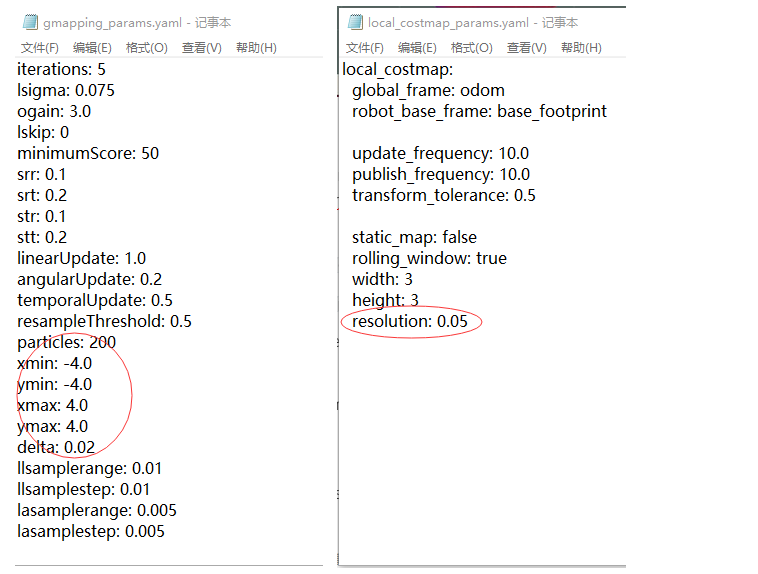
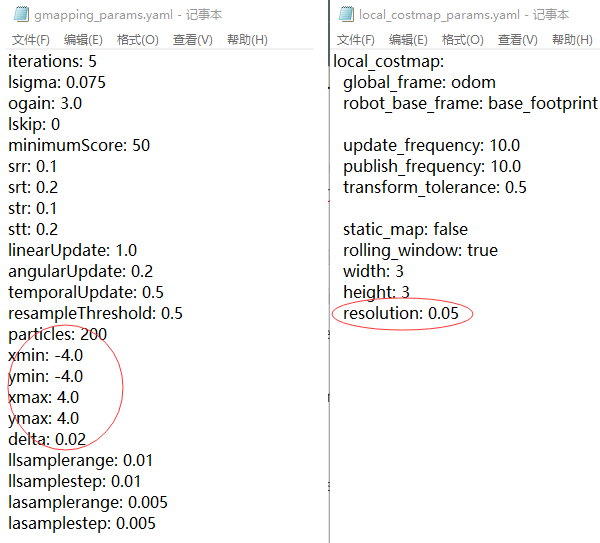
Report draft 2

Changed region(s): [[0.0, 0.0, 1.0, 1.0]]

diff --git a/docs/index.md b/docs/index.md
@@ -1,14 +1,13 @@
 <h1 style="text-align: center"> Capstone Competition </h1>
 <div style="text-align: center"><small>Ruidi PENG | Xiang YU</small></div>
 
-
-
-[toc]
+\* TOC {:toc}
 
 # Introduction
 
 In this competition, our goal is to navigate our robot racing around several points as fast as possible while recognizing the AR codes. To start with, a global map is built using Adaptive Monte Carlo Localization (AMCL) and Gmapping. Then, we need to plan the path by setting some points in our local map. Turtlebot is navigated to these points using `move_base` while reading out AR tags it sees.
-     ![image-20210603161112124](imgs\comp.png)
+
+     <div align=center><img src="imgs\comp.png" alt="image-20210603161112124" style="zoom:40%;" />
 
 # Competition Rules
 
@@ -22,7 +21,7 @@ The second round is setting the path by ourselves and reach as many targets as p
 
 In this project, we choose turtlebot3-burger as our robot. You can find the details [here](https://emanual.robotis.com/docs/en/platform/turtlebot3/overview/).
 
-![turtlebot3](imgs\turtlebot3.png)
+<div align=center><img src="imgs\turtlebot3.png" alt="turtlebot3" style="zoom:50%;" />
 
 Turtlebot3 is a small, low cost, fully programmable, ROS-based mobile robot. It combined with chassis, motor, wheels, OpenCR board, computer(Raspberry Pi), sensor(LiDAR, camera), battery.
 
@@ -32,7 +31,9 @@ This robot can complete many project, which includes: movement operation, forwar
 
 In this competition, LiDAR and camera will be used. They collect data and send to the Raspberry Pi. The the Raspberry Pi will communicate with remote PC with the help of Wi-Fi.
 
-The laser distance sensor we use is LDS-01. It is a 2D laser scanner capable of sensing 360 degrees that collects a set of data around the robot to use for SLAM (Simultaneous Localization and Mapping) and Navigation. More details could be found [here](https://emanual.robotis.com/docs/en/platform/turtlebot3/appendix_lds_01/).![lidar](imgs\lidar.png)
+The laser distance sensor we use is LDS-01. It is a 2D laser scanner capable of sensing 360 degrees that collects a set of data around the robot to use for SLAM (Simultaneous Localization and Mapping) and Navigation. More details could be found [here](https://emanual.robotis.com/docs/en/platform/turtlebot3/appendix_lds_01/).
+
+<div align=center><img src="imgs\lidar.png" alt="lidar" style="zoom:50%;" />
 
 Our camera is a simple csi camera. We only need to recognize the AR code so there is no need to use nicer and more expensive camera. After calibration, we can use it for AR code detection.
 
@@ -40,7 +41,7 @@ Our camera is a simple csi camera. We only need to recognize the AR code so ther
 
 We use Raspberry Pi as the on-board computer for Turtlebot3. It's a very small computer with the size of a credit card. We install Ubuntu 18.04 and ROS Melodic on it. The communication between Raspberry Pi and remote PC is based on Wi-Fi. We can use `ssh pi@[raspberry pi address]`to connect to Raspberry Pi under the same network. It can send command to OpenCR through the USB host, and OpenCR give the motor signal to control robots speed and direction.
 
-![rasp](imgs\rasp.jpg)
+<div align=center><img src="imgs\rasp.jpg" alt="rasp" style="zoom:80%;" />
 
 For more info on Raspberry Pi set up, read [here](https://emanual.robotis.com/docs/en/platform/turtlebot3/sbc_setup/#sbc-setup).
 
@@ -66,13 +67,15 @@ This section will briefly introduce what is packed in the git repository. The or
 
 # Design and Implementation
 
-## 1. Mapping[todo]
+## 1. Mapping
 
-We first built maps for the racing environment using GMapping. After control your robot running around the competition field, the final map can be build as showing below:
+We first built maps for the racing environment using GMapping. After controlling the robot running around the competition field, we can get maps as showing below: (Left for simulation, Right for real lab environment)
 
-![global_map](imgs\global_map.png)
+<div align=center><img src="imgs\maps.png" alt="global_map" style="zoom:90%;" />
 
-The final map is not very precise because of the LiDAR's deviation. We also find that the network also influence the map building. If too many people using the network in the same time, your robot may face packet loss so that the map is incorrect. 
+The final map is not very precise because of the LiDAR's deviation. We also find that the network also influence the map building. If too many people using the network in the same time, your robot may face packet loss so that the map is incorrect.
+
+<div align=center><img src="imgs\map-wrong.png" alt="global_map" style="zoom:60%;" />
 
 ## 2. Navigation
 
@@ -140,15 +143,15 @@ GMapping parameters mainly influence the mapping resolution and map maximum size
 
 When we doing navigation, we need to calculate the cost all the time, so we can also change the parameters in `local_costmap_params.yaml` . `resolution` is the size of the minimum unit of cost map. We first changed it to 0.02 as same as our global map. But the final experiment shows 0.05 is easier for our robot to get out of  the narrow corridor.
 
-![pa](imgs\pa.png)
+<div align=center><img src="imgs\pa.png" alt="pa" style="zoom:80%;" />
 
 ## 4. AR Tag Detection
 
 This is an independent task. We can search the AR tag and make a sound of corresponding numbers. The method is in `ar_track_alver`. We get the AR tag id and use `sound_play`to make sound. We wrote a [listener](https://github.com/readypeng/ee346_remote_pc_catkin_ws/blob/master/src/my_nodes/src/listener.py) to collect all AR code detected and read them out. Open the rviz with following command and we can find the recognition result.
 
-![img](imgs/tag1.gif)
+<div align=center><img src="imgs/tag1.gif" alt="img" style="zoom:80%;" />
 
-![img](imgs/tag2.png)
+<div align=center><img src="imgs/tag2.png" alt="img" style="zoom:80%;" />
 
 Using a lower resolution make the image transmission more robust. And it reduce complexity so that the program does not overheat the remote PC.
 
@@ -156,7 +159,7 @@ Using a lower resolution make the image transmission more robust. And it reduce 
 
 Round 1 is the fixed point path finding. We need to set the points in advance using 2D Nav Goal in rviz. Record the `move_base` message and write them in our navigation program. We set some middle points on the map in order to having a better performance of path finding and AR-tag recognition. The path of round 1 is PS1->1->2->3->4->5, and it's showing here:
 
-![round1](imgs\round1.png)
+<div align=center><img src="imgs\round1.png" alt="round1" style="zoom:100%;" />
 
 ## 6. Round 2
 
@@ -166,7 +169,7 @@ Round 2 is a self design task. For more scores we choose PS2 and PS3 as two basi
 
 The navigation program may plan the path automatically, but when we make the robot face right (the narrow channel direction), it is difficult for the robot to get out because the LiDRA deviation and AMCL resolution make effect the judgment of robot. Near the channel a small raise wall will show in local map so the robot cannot go forward, and actually there is nothing. When we try to change the direction of robot, the planning path changes and  avoids the raising wall. 
 
-![trick](imgs\trick.png)
+<div align=center><img src="imgs\trick.png" alt="trick" style="zoom:80%;" />
 
 # How to Test Our Code
 
@@ -220,9 +223,15 @@ Alternatively, you can use our map. Simply put `map-capstone-sim.pgm & .yaml` in
 
 `rosrun my_nodes nav_test.py`
 
-### Simulation Result
+# Demo
 
-![sim-result](imgs\sim-result.gif)
+## Simulation
+
+<div align=center><img src="imgs\sim-result.gif" alt="sim-result" style="zoom:80%;" />
+
+## Round 1
+
+<iframe src="//player.bilibili.com/player.html?aid=418386065&bvid=BV16V411x7Sd&cid=349126531&page=1" scrolling="no" border="0" frameborder="no" framespacing="0" allowfullscreen="true"> </iframe>
 
 # Conclusion
 
@@ -236,3 +245,8 @@ Yu Xiang: Parameter adjusting(40%)
 
 [Star us on Github](https://github.com/readypeng/ee346_remote_pc_catkin_ws)
 
+## For more of our notes
+
+[VISIT HERE](https://www.notion.so/Shared-Lab-Notes-a0929b1c3a5e4e8796cf50cf06eb4f1d)
+
+These pages note down how we approached each lab, including tweaks, links, tutorials we have used. These are just our scratch papers rather than detailed roadmaps. Feel free to get some inspiration.
